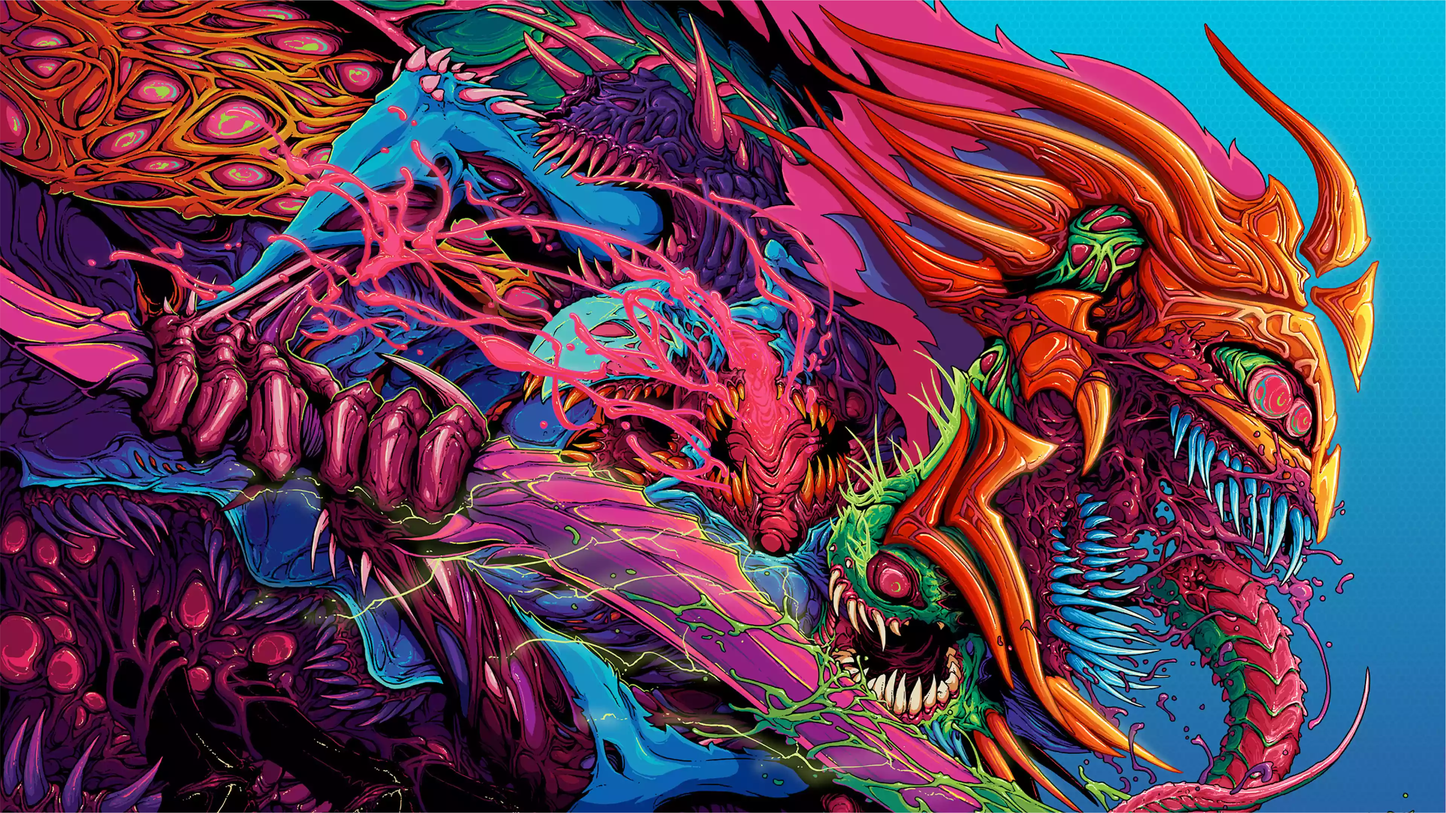
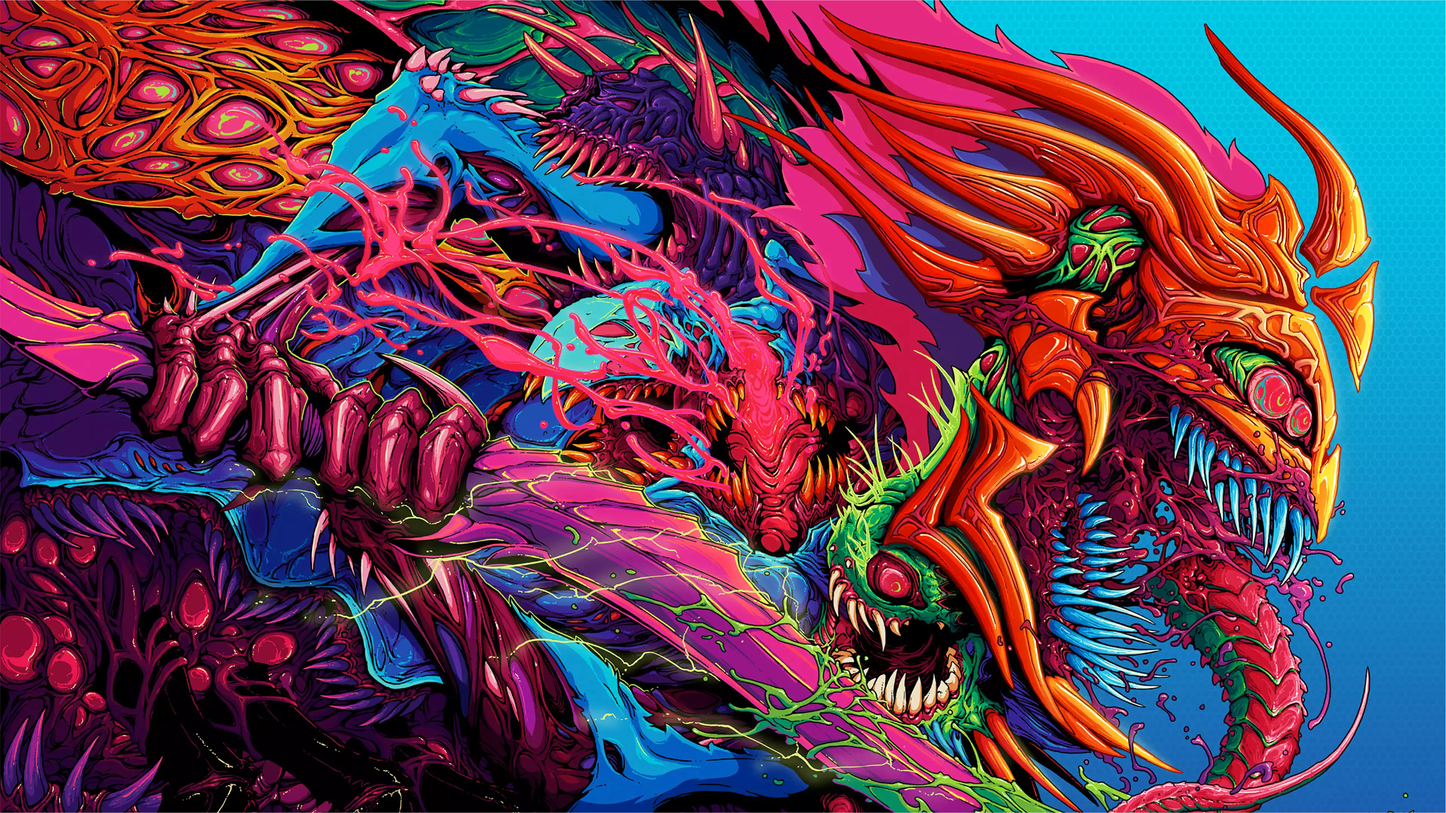
style: Color corrected images

diff --git a/common/components/landing/App.tsx b/common/components/landing/App.tsx
@@ -124,14 +124,14 @@ function App({ setThreeImagesBools, preloaderBool }) {
       ) // jQuery
     }
 
-    slider.addEventListener("touchstart", handleTouchStart, false)
-    slider.addEventListener("touchmove", handleTouchMove, false)
+    slider.addEventListener("touchstart", handleTouchStart, { passive: true })
+    slider.addEventListener("touchmove", handleTouchMove, { passive: true })
   }
 
   const imagesArr = [
     { id: 1, name: "UI / UX" },
     { id: 2, name: "CS:GO Artwork" },
-    { id: 3, name: "Lamborghini" },
+    { id: 3, name: "Aventador SVJ" },
     { id: 4, name: "Nike SB" },
   ]
 
